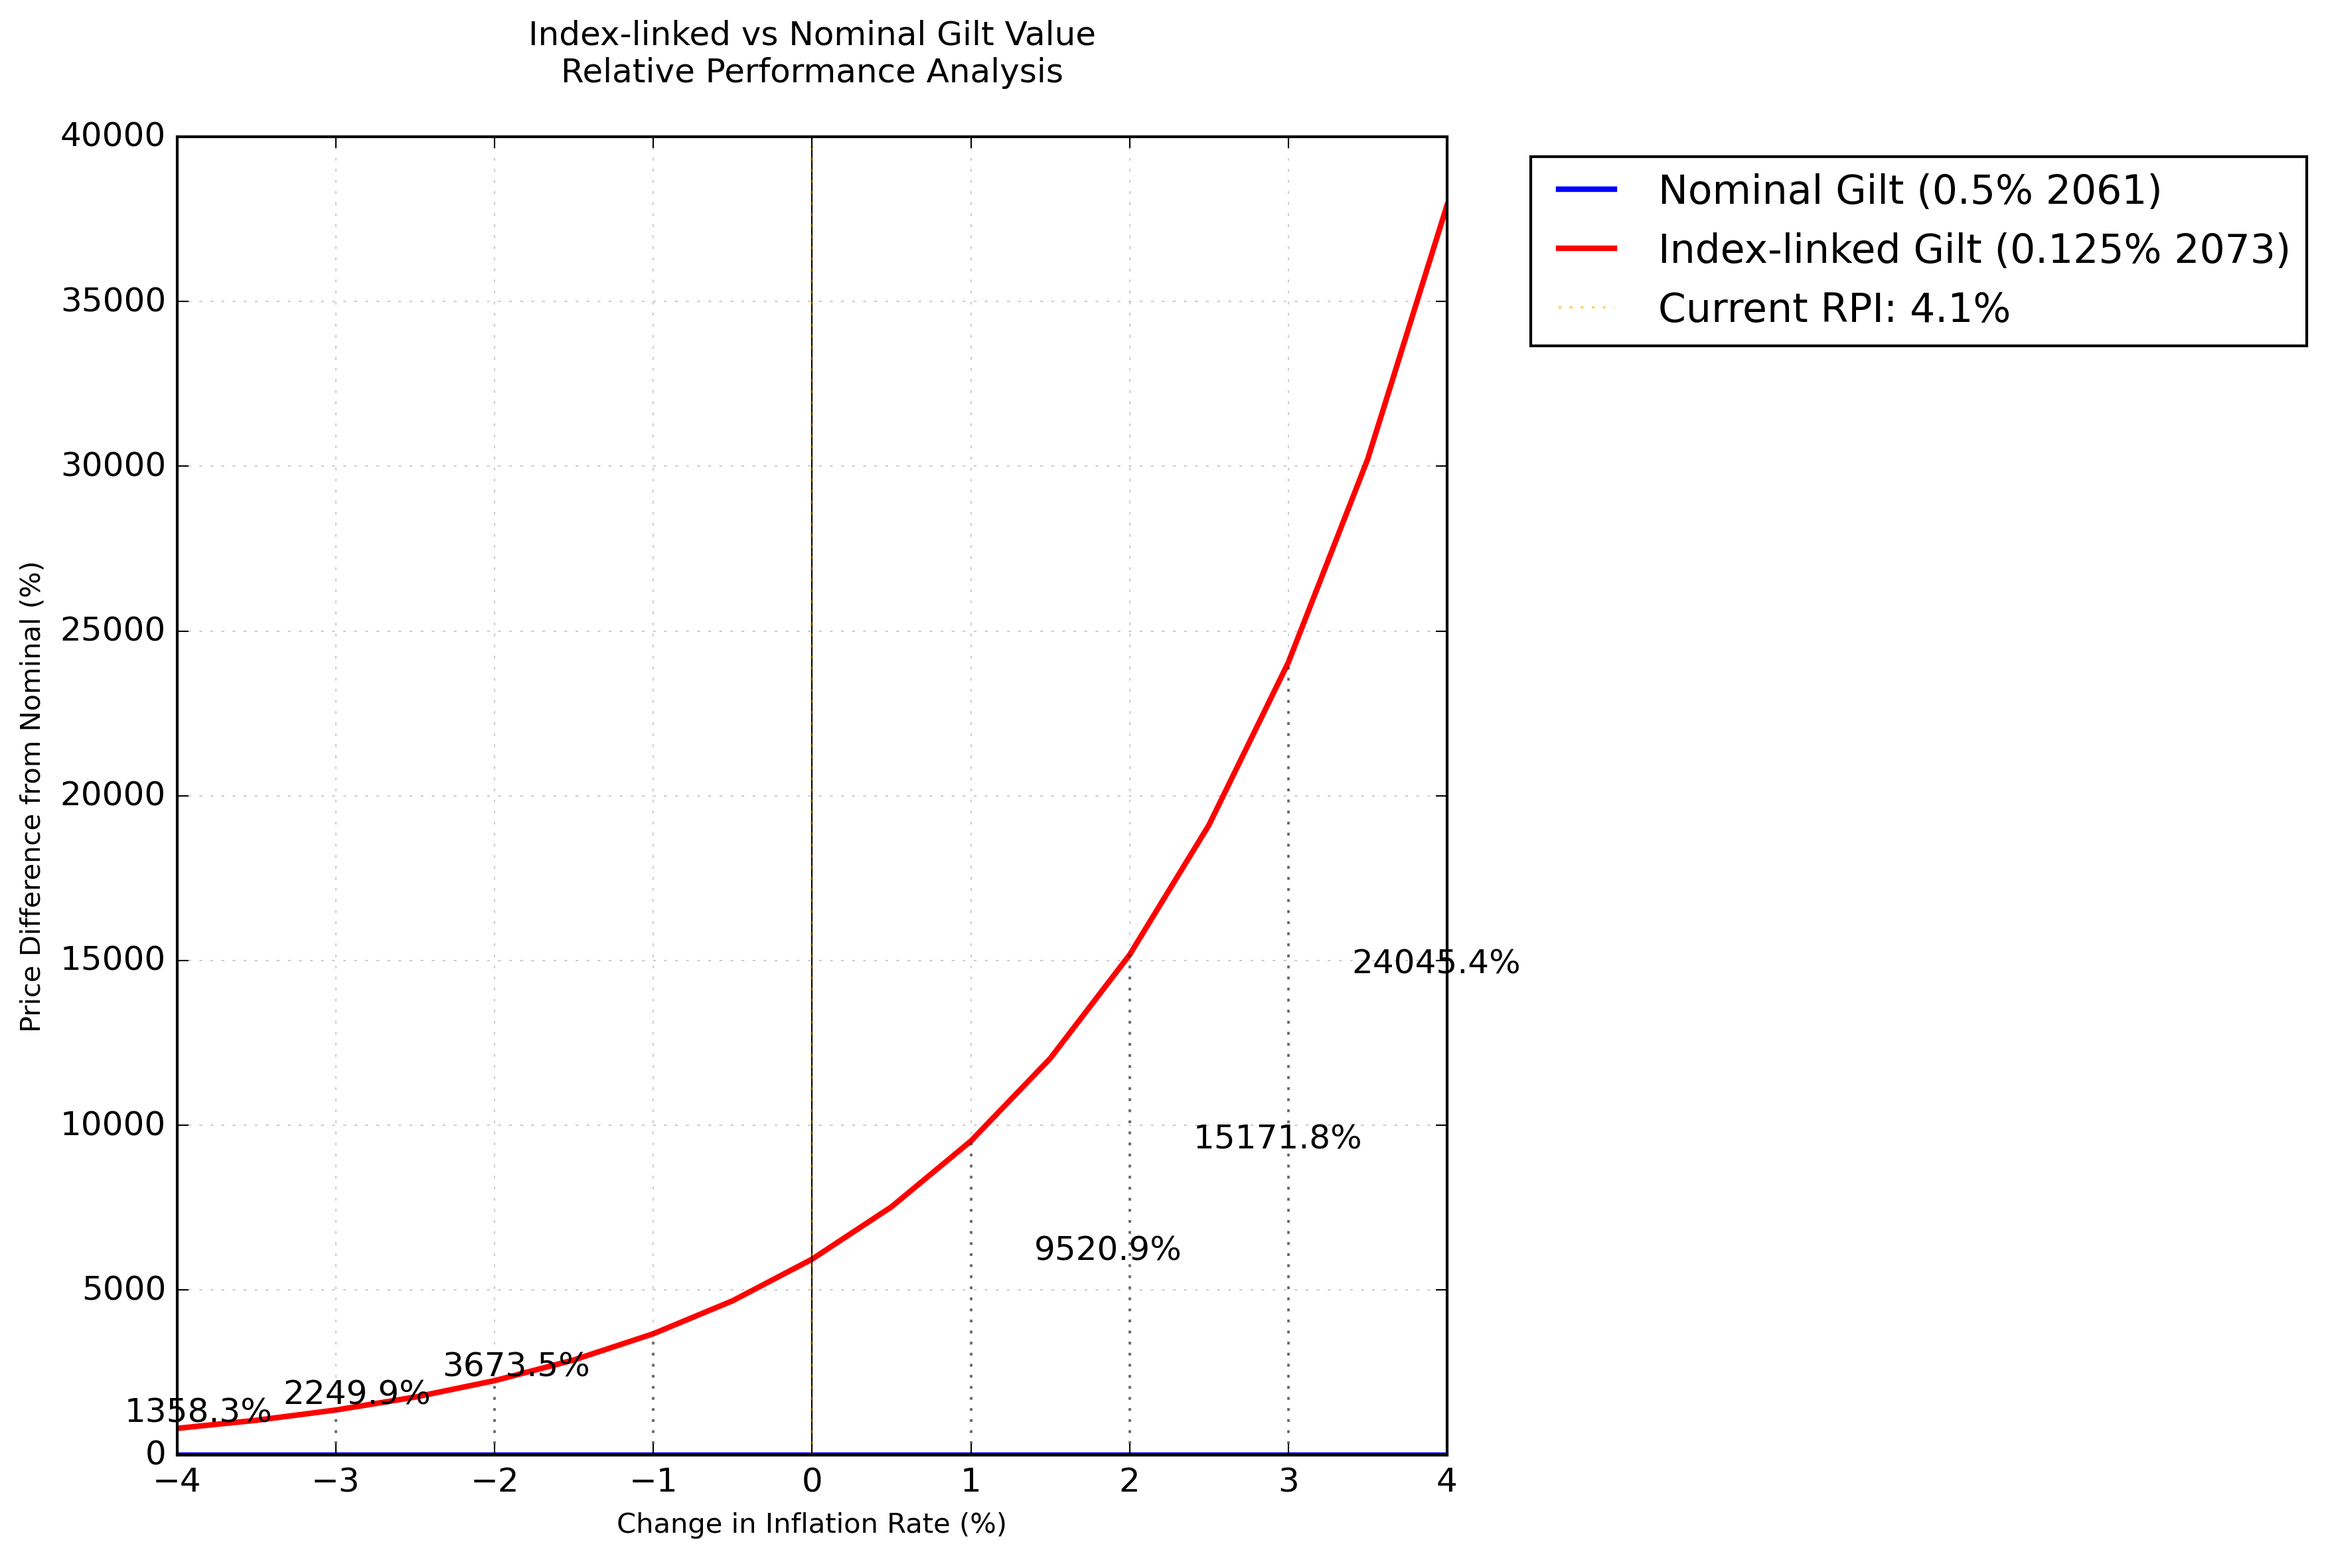
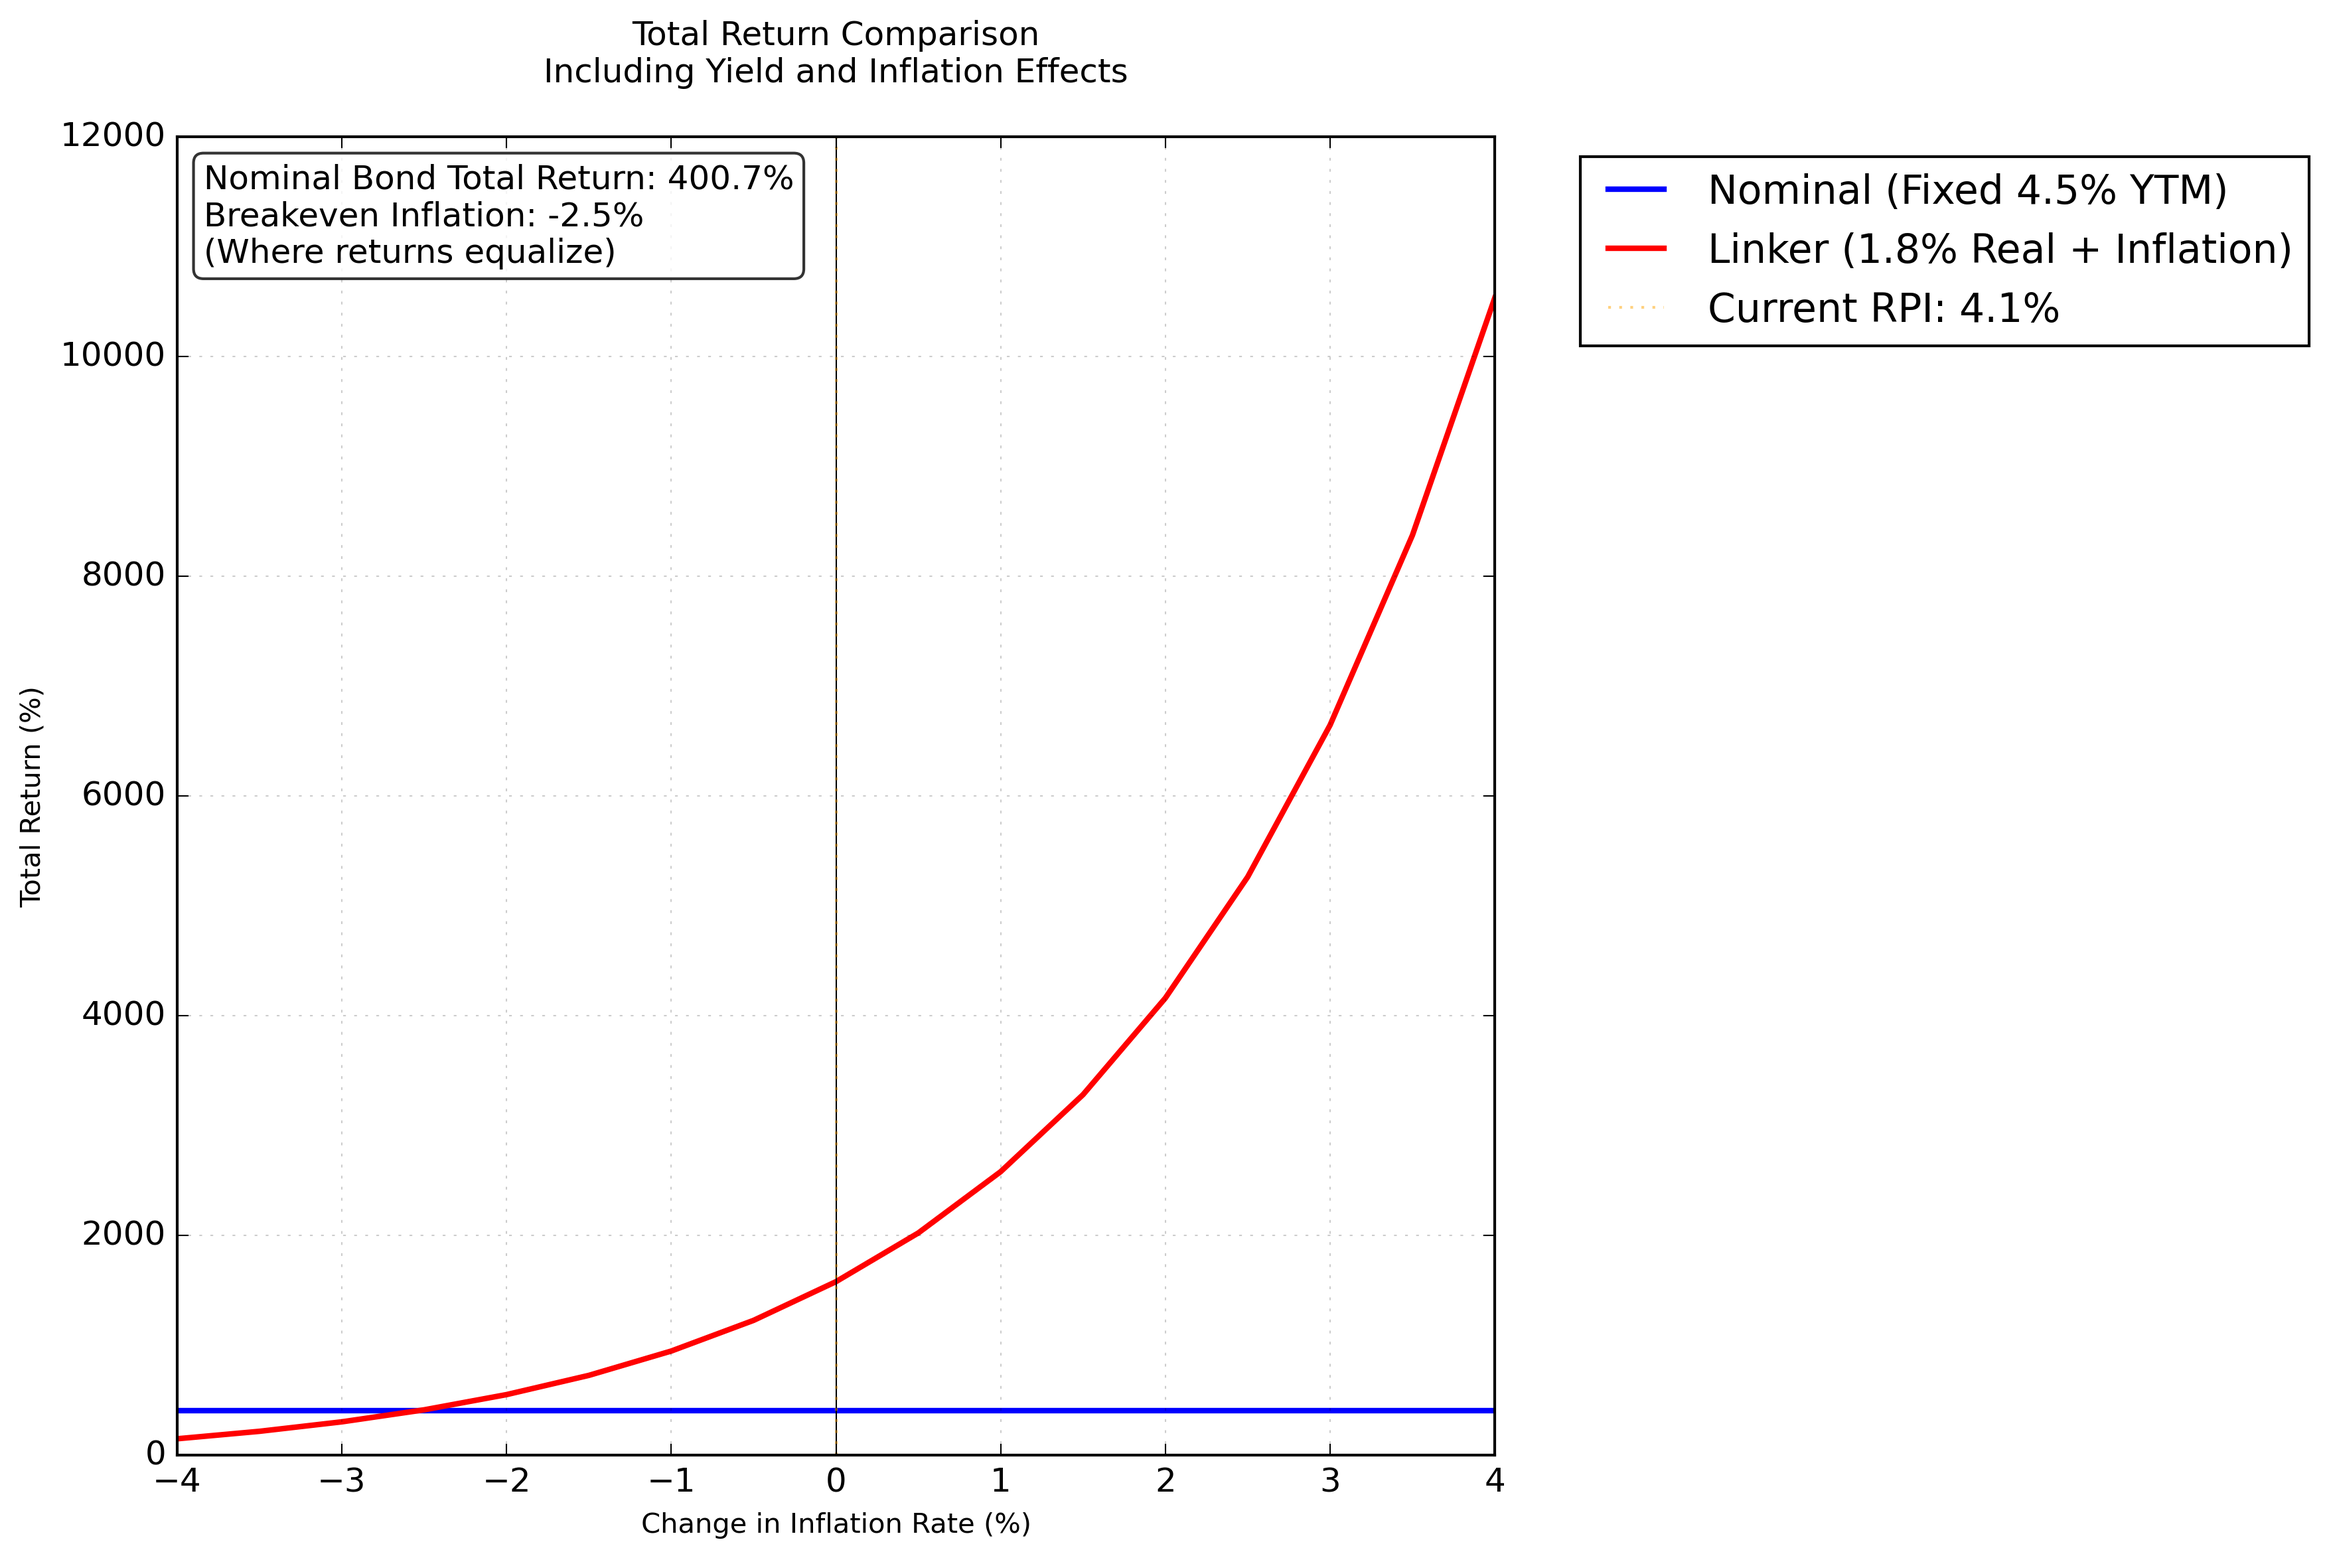
Udated the inflation linker graph which had a mess of wrong data..

diff --git a/ukandinflationbonds.py b/ukandinflationbonds.py
@@ -56,7 +56,7 @@ uk_yield = 0.0445  # Current yield ~4.45%
 linker_par = 100
 linker_T = 49  # Maturity in 2073
 linker_coup = 0.125  # 0.125% coupon
-linker_real_yield = -0.0175  # Current real yield ~-1.75%
+linker_real_yield = 0.0175  # Current real yield ~+1.75%
 inflation_rate = 0.041  # Current RPI inflation ~4.1%
 
 ###########################################
@@ -224,29 +224,34 @@ inflation_changes = np.arange(-4, 4.5, 0.5)  # ±4% range
 nominal_values = []
 real_values = []
 
-# Calculate base prices and breakeven
-base_nominal = linker_price(uk_par, uk_T, uk_yield, 0, uk_coup)
-base_real = linker_price(linker_par, linker_T, linker_real_yield, inflation_rate, linker_coup)
-breakeven = breakeven_inflation(base_nominal, base_real, uk_T, uk_coup, linker_coup)
-
-# Calculate values and percentage differences
+# Calculate total returns (including yield) for different inflation scenarios
 for di in inflation_changes:
-    nominal_price = linker_price(uk_par, uk_T, uk_yield, 0, uk_coup)
-    real_price = linker_price(linker_par, linker_T, linker_real_yield, inflation_rate + di/100, linker_coup)
+    inflation_scenario = inflation_rate + di/100
     
-    # Convert to percentage difference from nominal
-    nominal_pct = 0  # Nominal is reference line
-    real_pct = ((real_price / nominal_price) - 1) * 100
+    # Nominal bond: Fixed £100 redemption with annual coupon reinvestment
+    nominal_return = ((1 + uk_yield) ** uk_T) - 1  # Compound annual return
     
-    nominal_values.append(nominal_pct)
-    real_values.append(real_pct)
+    # Linker: Inflation-adjusted redemption with real yield
+    real_redemption = 100 * (1 + inflation_scenario)**linker_T
+    real_return = ((1 + linker_real_yield) ** linker_T) * (real_redemption/100) - 1
+    
+    # Convert to percentages
+    nominal_values.append(nominal_return * 100)
+    real_values.append(real_return * 100)
+
+# Add breakeven point calculation
+breakeven_idx = np.where(np.abs(np.array(nominal_values) - np.array(real_values)) == 
+                        np.min(np.abs(np.array(nominal_values) - np.array(real_values))))[0][0]
+breakeven_inflation = inflation_changes[breakeven_idx]
 
 plt.figure(figsize=(12, 8))
 plt.style.use('classic')
 
-# Plot percentage differences
-plt.plot(inflation_changes, nominal_values, 'b-', linewidth=2, label='Nominal Gilt (0.5% 2061)')
-plt.plot(inflation_changes, real_values, 'r-', linewidth=2, label='Index-linked Gilt (0.125% 2073)')
+# Plot total return comparison
+plt.plot(inflation_changes, nominal_values, 'b-', linewidth=2, 
+         label=f'Nominal (Fixed {uk_yield*100:.1f}% YTM)')
+plt.plot(inflation_changes, real_values, 'r-', linewidth=2, 
+         label=f'Linker ({linker_real_yield*100:.1f}% Real + Inflation)')
 
 # Reference lines
 plt.axhline(y=0, color='black', linestyle='-', linewidth=0.5)
@@ -256,22 +261,20 @@ plt.axvline(x=0, color='black', linestyle='-', linewidth=0.5)
 plt.axvline(x=0, color='orange', linestyle=':', alpha=0.5, 
             label=f'Current RPI: {inflation_rate*100:.1f}%')
 
-# Add markers for key changes
-for di in range(-3, 4):
-    if di != 0:
-        idx = np.where(inflation_changes == di)[0][0]
-        pct = real_values[idx]
-        plt.plot([di, di], [0, pct], 'k:', alpha=0.5)
-        x_offset = -0.4 if di < 0 else 0.4
-        y_offset = pct * -0.4
-        plt.text(di + x_offset, pct + y_offset, f'{pct:.1f}%',
-                horizontalalignment='right' if di < 0 else 'left',
-                verticalalignment='bottom' if pct > 0 else 'top')
+# Add a text box with the breakeven explanation
+nominal_return = ((1 + uk_yield) ** uk_T) - 1
+breakeven_text = (f'Nominal Bond Total Return: {nominal_return*100:.1f}%\n'
+                 f'Breakeven Inflation: {breakeven_inflation:.1f}%\n'
+                 f'(Where returns equalize)')
+plt.text(0.02, 0.98, breakeven_text, 
+         transform=plt.gca().transAxes,
+         verticalalignment='top',
+         bbox=dict(boxstyle='round', facecolor='white', alpha=0.8))
 
 plt.grid(True, alpha=0.2)
 plt.xlabel('Change in Inflation Rate (%)', fontsize=10)
-plt.ylabel('Price Difference from Nominal (%)', fontsize=10)
-plt.title('Index-linked vs Nominal Gilt Value\nRelative Performance Analysis',
+plt.ylabel('Total Return (%)', fontsize=10)
+plt.title('Total Return Comparison\nIncluding Yield and Inflation Effects',
           fontsize=12, pad=20)
 plt.legend(bbox_to_anchor=(1.05, 1), loc='upper left')
 
@@ -291,5 +294,4 @@ print(f"  YTM: {uk_yield*100:.2f}%")
 print(f"\nIndex-linked Gilt (0.125% 2073):")
 print(f"  Price: £{base_linker_price:.2f}")
 print(f"  Real Yield: {linker_real_yield*100:.2f}%")
-print(f"\nBreakeven Inflation: {breakeven*100:.2f}%")
-print(f"Current RPI: {inflation_rate*100:.1f}%") 
+print(f"\nCurrent RPI: {inflation_rate*100:.1f}%") 
